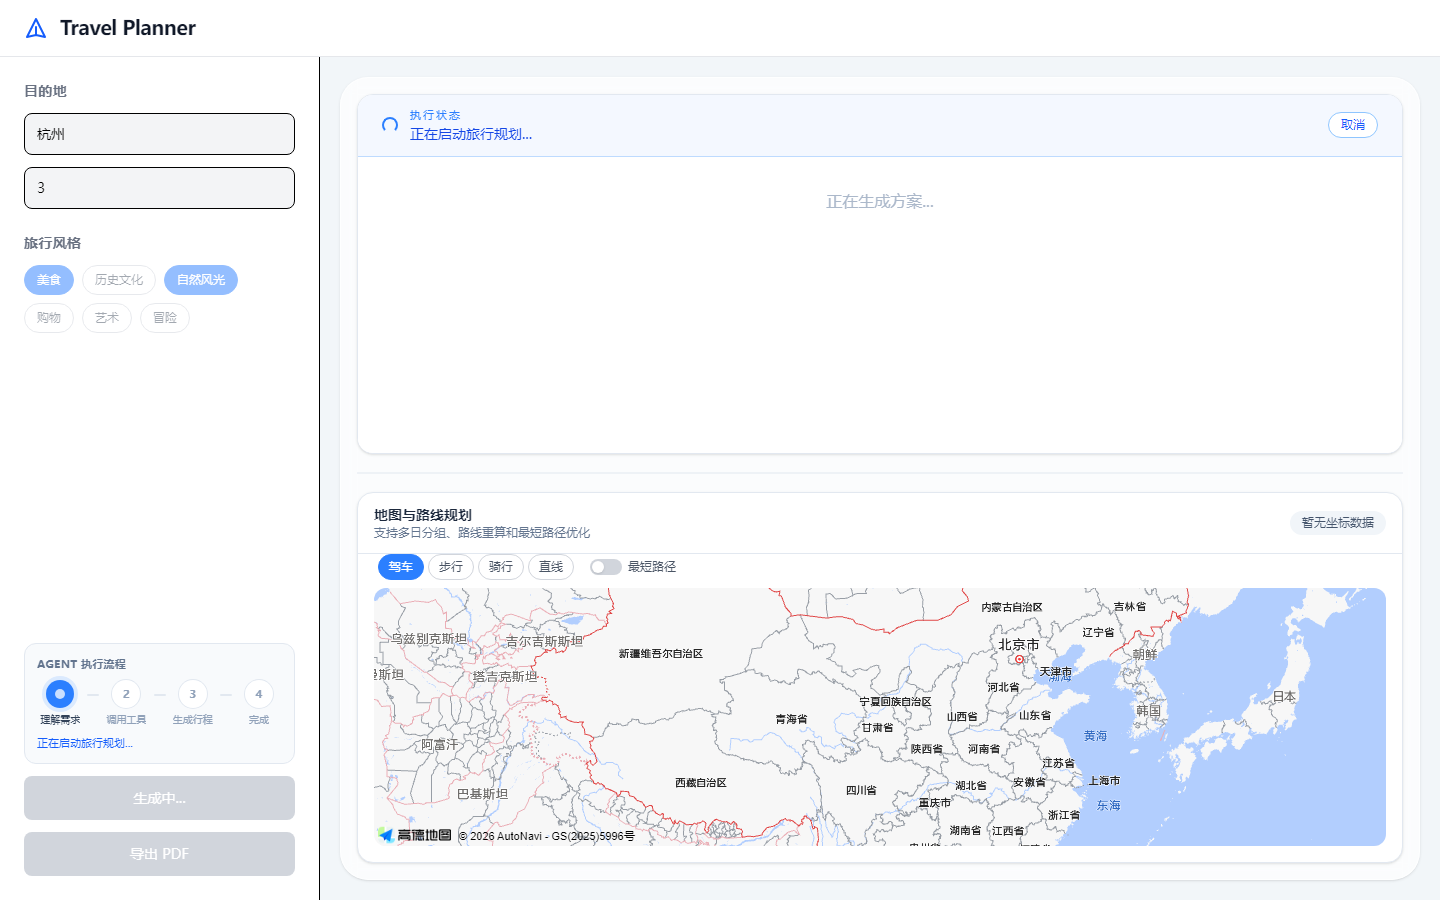
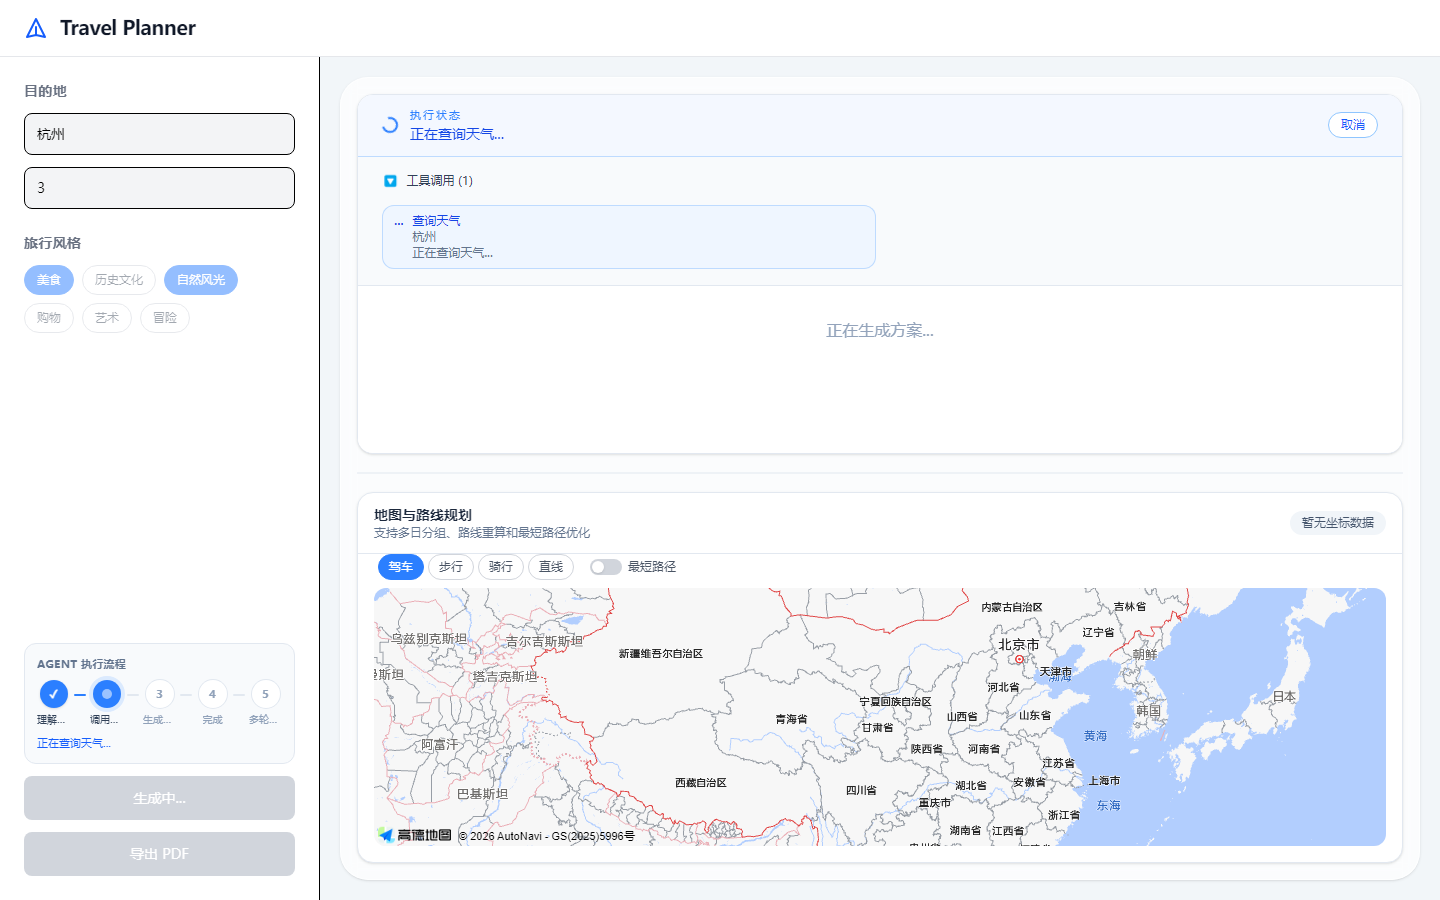
feat: show full Agent flow including follow-up in UI and README
Extend sidebar step dots to five stages with multi-turn follow-up, and refresh screenshots to cover tools, map, chat refine, and PDF export.

diff --git a/src/App.vue b/src/App.vue
@@ -189,7 +189,7 @@
                     :class="flowDotClass(idx)"
                   >
                     <span v-if="flowActiveIndex === idx && agent.state.loading" class="h-2.5 w-2.5 animate-pulse rounded-full bg-white"></span>
-                    <span v-else-if="idx < flowActiveIndex">✓</span>
+                    <span v-else-if="flowActiveIndex >= 5 || idx < flowActiveIndex">✓</span>
                     <span v-else>{{ idx + 1 }}</span>
                   </div>
                   <span
@@ -197,10 +197,10 @@
                     :class="idx <= flowActiveIndex ? 'font-medium text-slate-700' : 'text-slate-400'"
                   >{{ s.label }}</span>
                 </div>
-                <div
+                  <div
                   v-if="idx < flowSteps.length - 1"
-                  class="mb-4 h-0.5 w-3 shrink-0 rounded-full"
-                  :class="idx < flowActiveIndex ? 'bg-blue-500' : 'bg-slate-200'"
+                  class="mb-4 h-0.5 w-2 shrink-0 rounded-full sm:w-3"
+                  :class="idx < flowActiveIndex || flowActiveIndex >= 5 ? 'bg-blue-500' : 'bg-slate-200'"
                 ></div>
               </template>
             </div>
@@ -326,28 +326,39 @@ import { listSessions, getSession, deleteSession, type SessionSummary } from './
 
 const agent = useAgent()
 
-/** 生成按钮上方的流程豆豆：理解 → 调工具 → 写行程 → 完成 */
+/** 生成按钮上方的流程豆豆：首次生成 + 多轮追问 */
 const flowSteps = [
   { key: 'understand', label: '理解需求' },
   { key: 'tools', label: '调用工具' },
   { key: 'write', label: '生成行程' },
   { key: 'done', label: '完成' },
+  { key: 'followup', label: '多轮追问' },
 ] as const
 
 const flowActiveIndex = computed(() => {
-  if (agent.state.error) return Math.min(agent.state.step > 0 ? 1 : 0, 3)
-  if (agent.state.donePayload || (agent.state.cleanMarkdown && !agent.state.loading)) return 3
-  if (agent.state.cleanMarkdown || agent.state.itinerary) return 2
-  if (agent.state.toolCalls.length > 0) return 1
-  if (agent.state.loading || agent.state.step > 0) return 0
+  const s = agent.state
+  if (s.phase === 'followup' || s.followupDone) {
+    if (s.followupDone && !s.loading) return 5
+    return 4
+  }
+  if (s.error && s.phase !== 'followup') return Math.min(s.step > 0 ? 1 : 0, 3)
+  if (s.sessionId && (s.donePayload || s.cleanMarkdown) && !s.loading) return 3
+  if (s.cleanMarkdown || s.itinerary) return 2
+  if (s.toolCalls.length > 0) return 1
+  if (s.loading || s.step > 0 || s.phase === 'generate') return 0
   return -1
 })
 
 function flowDotClass(idx: number): string {
   const active = flowActiveIndex.value
+  const s = agent.state
+  if (active >= 5) return 'bg-blue-500 text-white shadow-sm'
   if (idx < active) return 'bg-blue-500 text-white shadow-sm'
-  if (idx === active && agent.state.loading) return 'bg-blue-500 text-white ring-4 ring-blue-100'
+  if (idx === active && s.loading) return 'bg-blue-500 text-white ring-4 ring-blue-100'
   if (idx === active) return 'bg-blue-500 text-white'
+  if (idx === 4 && active === 3 && s.sessionId) {
+    return 'bg-white text-blue-500 ring-2 ring-dashed ring-blue-300'
+  }
   return 'bg-white text-slate-400 ring-1 ring-slate-200'
 }
 

diff --git a/src/composables/useAgent.ts b/src/composables/useAgent.ts
@@ -49,6 +49,8 @@ export interface ToolCallRecord {
 export interface AgentState {
   /** 是否正在请求中 */
   loading: boolean
+  /** 当前阶段：首次生成 / 多轮追问 */
+  phase: 'idle' | 'generate' | 'followup'
   /** 当前状态文字（如 "正在搜索北京的景点…"） */
   statusText: string
   /** 当前是第几步 */
@@ -69,6 +71,8 @@ export interface AgentState {
   requestId: string
   /** 错误信息 */
   error: ErrorPayload | null
+  /** 是否已至少完成过一轮追问 */
+  followupDone: boolean
 }
 
 // ============================================================
@@ -78,6 +82,7 @@ export interface AgentState {
 function createInitialState(): AgentState {
   return {
     loading: false,
+    phase: 'idle',
     statusText: '',
     step: 0,
     rawMarkdown: '',
@@ -88,6 +93,7 @@ function createInitialState(): AgentState {
     sessionId: '',
     requestId: '',
     error: null,
+    followupDone: false,
   }
 }
 
@@ -210,6 +216,7 @@ export function useAgent() {
     // 重置状态
     Object.assign(state, createInitialState())
     state.loading = true
+    state.phase = 'generate'
     state.statusText = '正在启动旅行规划...'
 
     abortController = new AbortController()
@@ -239,6 +246,7 @@ export function useAgent() {
     }
 
     state.loading = true
+    state.phase = 'followup'
     state.statusText = '正在根据你的意见修改行程...'
     state.error = null
 
@@ -246,6 +254,7 @@ export function useAgent() {
 
     try {
       await continueChat(state.sessionId, message, handleEvent, abortController.signal)
+      state.followupDone = true
     } catch (err: unknown) {
       if ((err as Error).name !== 'AbortError') {
         state.error = {

diff --git a/vite.config.ts b/vite.config.ts
@@ -28,7 +28,7 @@ export default defineConfig({
     // ──────────────────────────────────────
     proxy: {
       '/api': {
-        target: 'http://127.0.0.1:8000',   // FastAPI 后端；若与其它项目冲突可改为 8001
+        target: 'http://127.0.0.1:8000',   // FastAPI；端口冲突时改为 8001
         changeOrigin: true,
         // SSE 流式响应：只修改响应头，不接管 pipe，避免数据重复
         configure: (proxy) => {

diff --git a/docs/screenshots/README.md b/docs/screenshots/README.md
@@ -1,14 +1,18 @@
 # Demo Screenshots
 
-本地真实跑通 Agent 后用 Playwright 截取（`scripts/capture-readme-screens.mjs`）。
+本地真实跑通后截取（`scripts/capture-readme-screens.mjs`）。
 
 | 文件 | 说明 |
 |------|------|
-| `01-empty.png` | 初始空状态，流程豆豆未开始 |
-| `02-form-ready.png` | 已填杭州 / 3 天 / 风格，可点生成 |
-| `03-generating-flow.png` | 豆豆第 1 步「理解需求」，右侧执行状态 |
-| `04-tools.png` | 生成早期状态（截取时机偏早时可能与 03 接近） |
-| `05-result.png` | 豆豆进入「生成行程」，工具调用 + 流式正文 |
-| `06-map.png` | 行程文案 + 地图工作台同屏 |
+| `01-empty.png` | 初始空状态 |
+| `02-form-ready.png` | 填表 + 风格，可生成 |
+| `03-generating-flow.png` | 豆豆第 1 步，执行状态 |
+| `04-tools.png` | 工具调用展开 / 进行中 |
+| `05-result.png` | 行程正文 + 追问入口 |
+| `06-map.png` | 地图与分日图例 |
+| `07-followup-ready.png` | 填写多轮追问 |
+| `08-followup-running.png` | 追问执行中 |
+| `09-followup-done.png` | 五步豆豆全勾 + 行程已按追问调整 |
+| `10-export-pdf.png` | 导出 PDF 可用 |
 
-左侧 **Agent 执行流程** 四步：理解需求 → 调用工具 → 生成行程 → 完成。
+五步豆豆：理解需求 → 调用工具 → 生成行程 → 完成 → 多轮追问。
